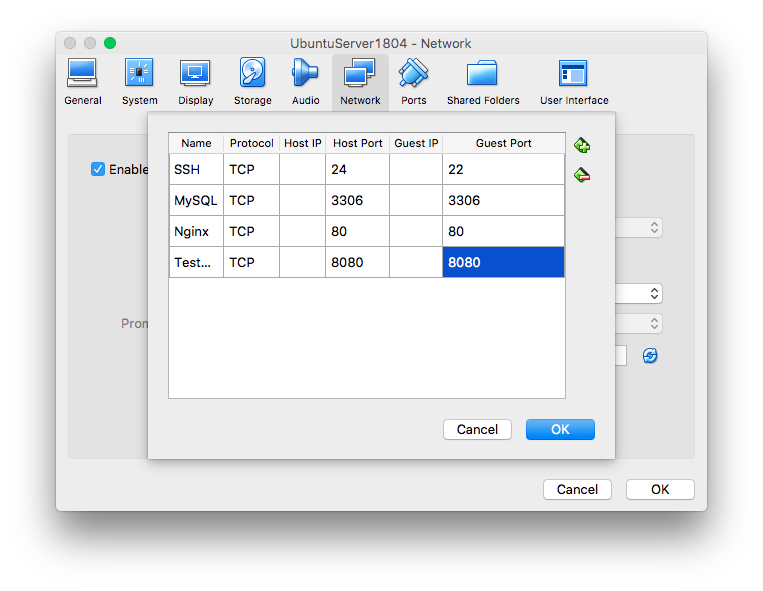
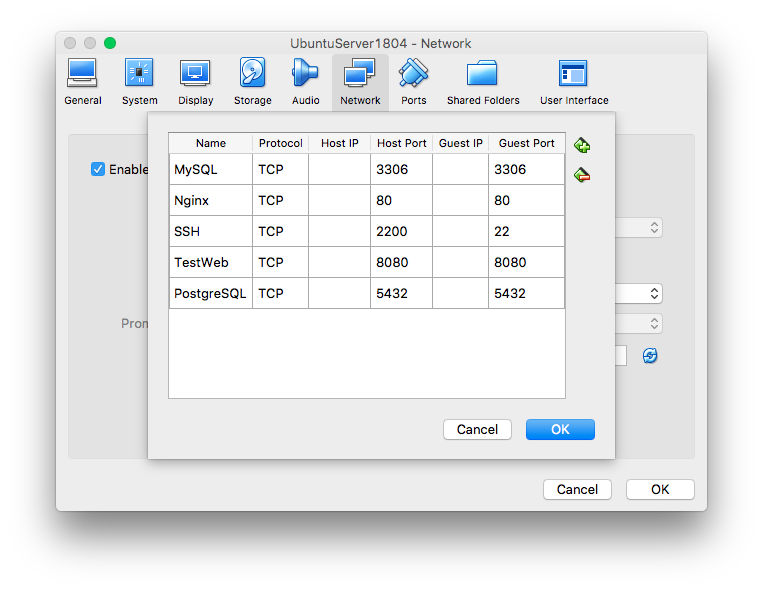
vm-install-ubuntuServer1804-mac updated portforwarding with correct port and netplan

diff --git a/virtualbox/vm-install-ubuntuServer1804-mac/README.md b/virtualbox/vm-install-ubuntuServer1804-mac/README.md
@@ -146,7 +146,7 @@ In order to Isolate the VM and use the same IP as our local machine we can use p
 > Click in Port Forwarding
 
 Enable as follows:
-* SSH in port 24 **This way we avoid Port collision with our local host**
+* SSH in port 2200 **This way we avoid Port collision with our local host**
 * MySQL in Port 3306
 * PostgreSQl in Port 5432
 * Nginx in Port 80
@@ -155,7 +155,21 @@ Enable as follows:
 ![Port Forwarding 1](PortForwarding2.png)
 
 **Login in via SSH from Host Computer** \
-`ssh -p 24 ubuntu@localhost`
+`ssh -p 2200 ubuntu@localhost`
+
+>**Note:** Make sure you have the original netplan configuration.
+```bash
+# /etc/netplan/50-cloud-init.yaml
+sudo vim /etc/netplan/50-cloud-init.yaml
+
+# DHCP ORIGINAL CONFIG
+network:
+    ethernets:
+        enp0s3:
+            addresses: []
+            dhcp4: true
+    version: 2
+```
 
 ### Virtual Box Guest Additions
 > Menu -> Devices -> Insert Guess Additions CD Image
